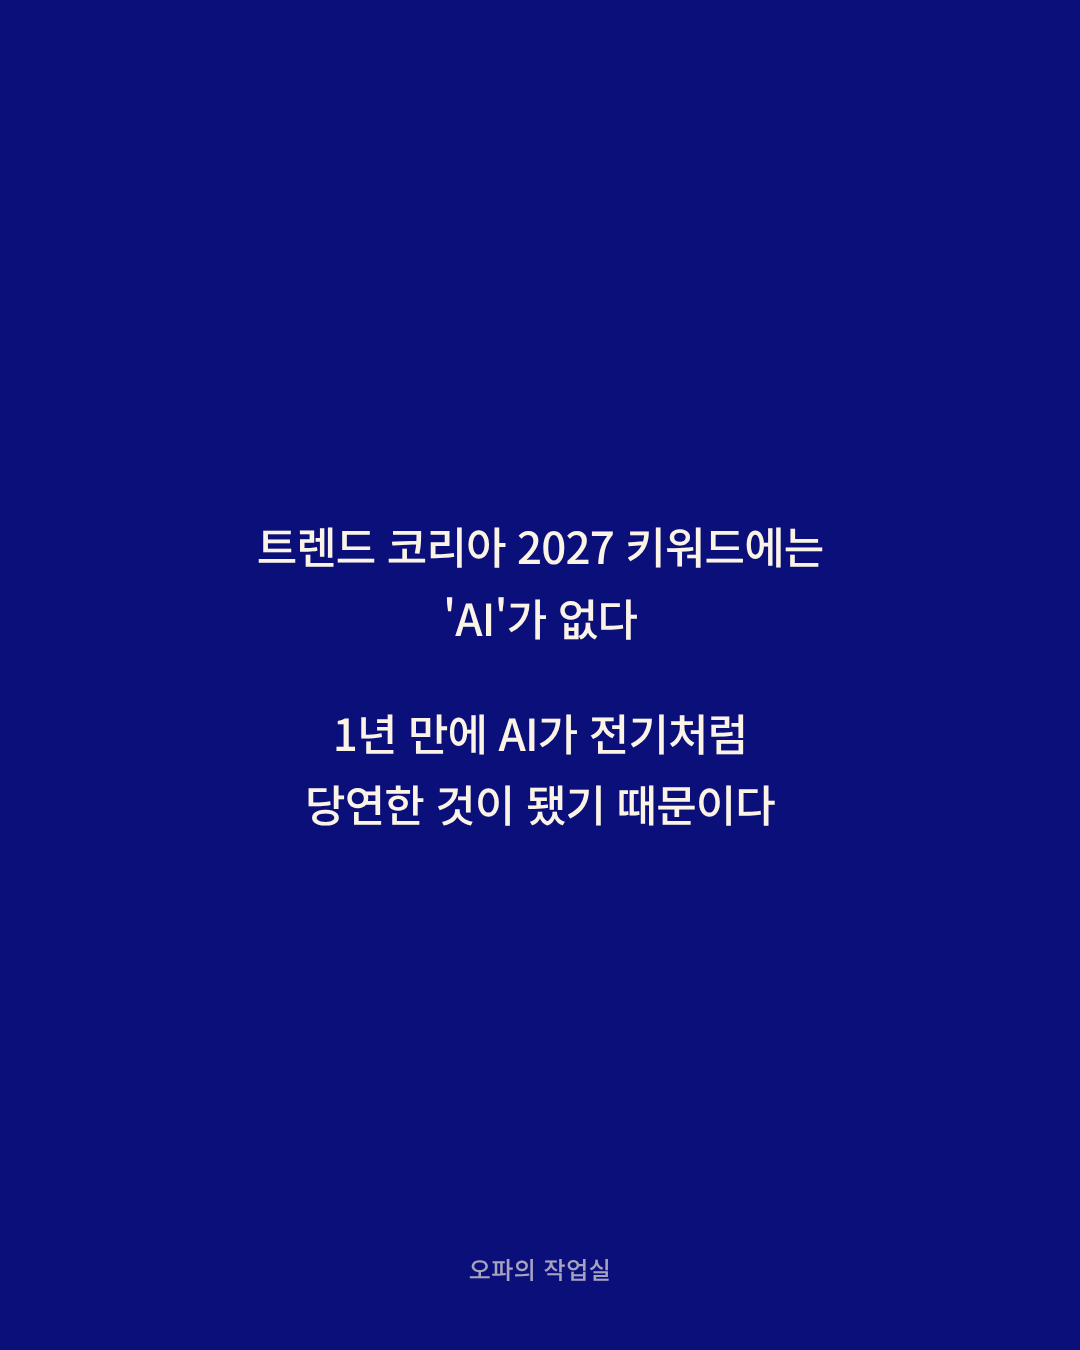
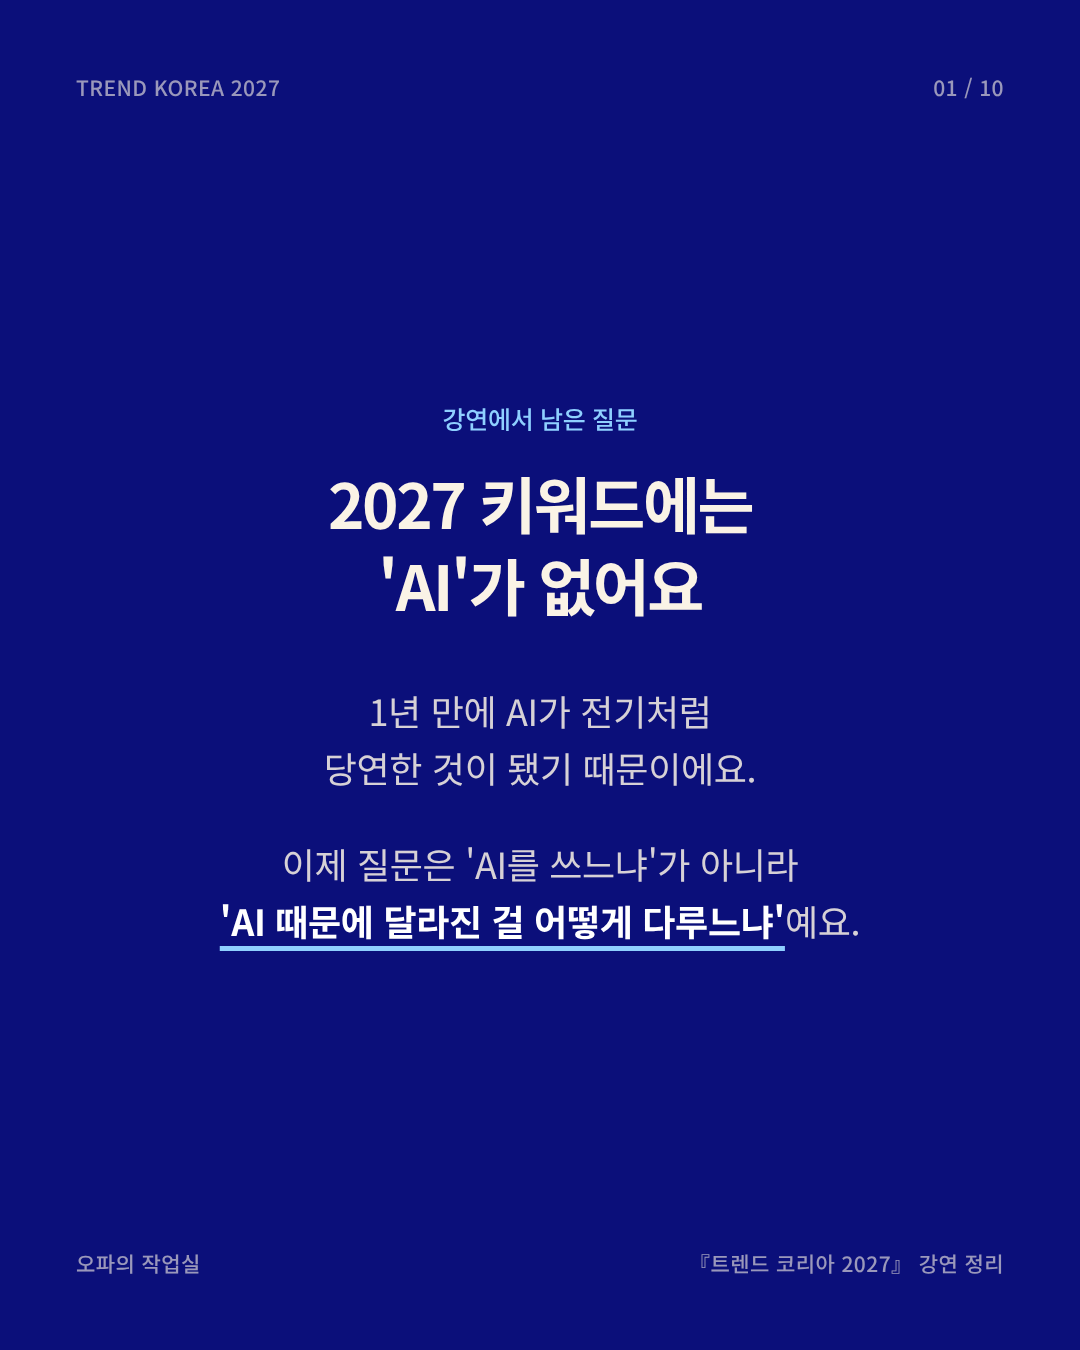
텍스트 카드: 진한 울트라마린·연하늘 번갈아 쓰기, 제목·본문 위계, 마지막 장 체크리스트
Claude-Session: https://claude.ai/code/session_016hvv34jPWo253fQY5tLEVV

diff --git a/cardnews/trend-korea-2027/text/text.html b/cardnews/trend-korea-2027/text/text.html
@@ -3,22 +3,72 @@
 <style>
 * { box-sizing: border-box; margin: 0; padding: 0; }
 body { background: #888; }
-.card { width: 1080px; height: 1350px; margin: 0 auto 30px; background: #0B0F7A; color: #FAF3E6;
-  display: flex; align-items: center; justify-content: center; position: relative;
-  font-family: 'Noto Sans KR', sans-serif; text-align: center; word-break: keep-all; padding: 0 80px; }
-.txt p { font-size: 44px; font-weight: 500; line-height: 1.62; letter-spacing: -0.02em; }
-.txt p + p { margin-top: 44px; }
-em { font-style: normal; color: #B9DCF7; font-weight: 700; }
-.foot { position: absolute; bottom: 64px; left: 0; right: 0; font-size: 24px; font-weight: 500; color: rgba(250,243,230,.65); letter-spacing: .02em; }
+.card { width: 1080px; height: 1350px; margin: 0 auto 30px; padding: 72px 76px; display: flex; flex-direction: column;
+  font-family: 'Noto Sans KR', sans-serif; text-align: center; word-break: keep-all; letter-spacing: -0.02em; }
+.dark { background: #0B0F7A; color: #FAF3E6; --k: #8FD0FF; --sub: rgba(250,243,230,.85); --line: #8FD0FF; --meta: rgba(250,243,230,.6); }
+.light { background: #E3F0FC; color: #0B0F7A; --k: #3D6FC4; --sub: #2A2F66; --line: #7FB2EA; --meta: rgba(11,15,122,.6); }
+.top, .foot { display: flex; justify-content: space-between; font-size: 21px; font-weight: 500; color: var(--meta); letter-spacing: .02em; }
+.txt { flex: 1; display: flex; flex-direction: column; justify-content: center; align-items: center; }
+.k { font-size: 25px; font-weight: 500; color: var(--k); margin-bottom: 26px; }
+h2 { font-size: 62px; font-weight: 700; line-height: 1.32; letter-spacing: -0.04em; margin-bottom: 56px; }
+p { font-size: 36px; font-weight: 400; line-height: 1.6; color: var(--sub); }
+p + p { margin-top: 38px; }
+em { font-style: normal; font-weight: 700; color: inherit; text-decoration: underline; text-decoration-color: var(--line);
+  text-decoration-thickness: 5px; text-underline-offset: 10px; }
+.dark em { color: #FFFFFF; }
+.steps, .qs { list-style: none; text-align: left; margin-bottom: 44px; }
+.steps li, .qs li { font-size: 35px; line-height: 1.5; padding: 12px 0; color: var(--sub); font-weight: 500; }
+.steps span, .qs span { display: inline-block; width: 64px; font-size: 24px; font-weight: 700; color: var(--k); vertical-align: 4px; }
+.qs li { font-size: 32px; padding: 10px 0; }
 </style></head><body>
-<section class="card" id="c1"><div class="txt"><p>트렌드 코리아 2027 키워드에는<br>'AI'가 없다</p><p>1년 만에 AI가 전기처럼<br>당연한 것이 됐기 때문이다</p></div><div class="foot">오파의 작업실</div></section>
-<section class="card" id="c2"><div class="txt"><p>그래서 올해의 질문이 바뀌었다</p><p>AI를 쓰느냐가 아니라<br>AI 때문에 달라진 일, 인생, 감각을<br>어떻게 다루느냐</p></div><div class="foot">오파의 작업실</div></section>
-<section class="card" id="c3"><div class="txt"><p><em>바이브 워킹</em></p><p>AI로 보고서는 이틀에서 반나절이 됐는데<br>팀 프로젝트는 여전히 3개월이다</p><p>병목은 AI가 아니라<br>일하는 방식에 있다</p></div><div class="foot">오파의 작업실</div></section>
-<section class="card" id="c4"><div class="txt"><p>AI는 아직 신입사원이다</p><p>10년 손발 맞춘 동료는<br>"3년 전 그 PPT처럼" 한마디면 알아듣는다</p><p>AI도 그렇게 되려면<br><em>우리 팀의 맥락</em>부터 가르쳐야 한다</p></div><div class="foot">오파의 작업실</div></section>
-<section class="card" id="c5"><div class="txt"><p>우수 사례 경진대회보다<br>실패 사례를 모으는 팀이 더 빨리 배운다</p><p>"이렇게 썼더니 망했다"는<br>누구나 신나게 공유하기 때문이다</p></div><div class="foot">오파의 작업실</div></section>
-<section class="card" id="c6"><div class="txt"><p><em>하프시그널</em></p><p>갱년기는 끝이 아니라<br>인생 후반전을 알리는 하프타임이다</p><p>X세대는 참지 않고<br>말하고, 소비하고, 준비한다</p></div><div class="foot">오파의 작업실</div></section>
-<section class="card" id="c7"><div class="txt"><p>이제 갱년기는 집이 아니라<br>일터의 문제이기도 하다</p><p>이케아는 갱년기 동료 배려 매뉴얼을 만들었고<br>노무라는 갱년기 유급휴가를 준다</p></div><div class="foot">오파의 작업실</div></section>
-<section class="card" id="c8"><div class="txt"><p><em>안목자본</em></p><p>AI를 써도 글을 못 쓰는 사람이 있다<br>좋은 글이 뭔지 모르기 때문이다</p><p>무한히 만들어지는 시대에는<br>고르는 눈이 실력이다</p></div><div class="foot">오파의 작업실</div></section>
-<section class="card" id="c9"><div class="txt"><p>안목은 이렇게 자란다</p><p>많이 보고, 내 언어로 표현하고<br>전문가의 평가와 비교하고, 오래 반복한다</p><p>보고 저장만 하면<br>안목은 생기지 않는다</p></div><div class="foot">오파의 작업실</div></section>
-<section class="card" id="c10"><div class="txt"><p>어제의 해결책이<br>오늘의 문제점이 된다</p><p>— 트렌드 코리아 2027 강연 중</p><p><em>내년 기획 전에 다시 꺼내 볼 수 있게<br>저장해두세요</em></p></div><div class="foot">오파의 작업실</div></section>
+<section class="card dark" id="c1">
+  <div class="top"><span>TREND KOREA 2027</span><span>01 / 10</span></div>
+  <div class="txt"><div class="k">강연에서 남은 질문</div><h2>2027 키워드에는<br>'AI'가 없어요</h2><p>1년 만에 AI가 전기처럼<br>당연한 것이 됐기 때문이에요.</p><p>이제 질문은 'AI를 쓰느냐'가 아니라<br><em>'AI 때문에 달라진 걸 어떻게 다루느냐'</em>예요.</p></div>
+  <div class="foot"><span>오파의 작업실</span><span>『트렌드 코리아 2027』 강연 정리</span></div>
+</section>
+<section class="card light" id="c2">
+  <div class="top"><span>TREND KOREA 2027</span><span>02 / 10</span></div>
+  <div class="txt"><div class="k">01 · 바이브 워킹</div><h2>AI를 쓴다고<br>일을 잘하게 되는 건 아니에요</h2><p>보고서는 2일 → 반나절,<br>팀 프로젝트는 3개월 그대로.</p><p>병목은 AI가 아니라<br><em>일하는 방식</em>에 있어요.</p></div>
+  <div class="foot"><span>오파의 작업실</span><span>『트렌드 코리아 2027』 강연 정리</span></div>
+</section>
+<section class="card dark" id="c3">
+  <div class="top"><span>TREND KOREA 2027</span><span>03 / 10</span></div>
+  <div class="txt"><div class="k">01 · 바이브 워킹</div><h2>AI는 아직<br>신입사원이에요</h2><p>10년 손발 맞춘 동료는<br>"3년 전 그 PPT처럼" 한마디면 알아들어요.</p><p>AI도 그렇게 되려면<br><em>우리 팀의 맥락</em>부터 가르쳐야 해요.</p></div>
+  <div class="foot"><span>오파의 작업실</span><span>『트렌드 코리아 2027』 강연 정리</span></div>
+</section>
+<section class="card light" id="c4">
+  <div class="top"><span>TREND KOREA 2027</span><span>04 / 10</span></div>
+  <div class="txt"><div class="k">01 · 바이브 워킹</div><h2>우수 사례보다<br>실패 사례를 모으세요</h2><p>경진대회는 부담이라 아무도 안 내요.</p><p>"이렇게 썼더니 망했어"는<br>누구나 신나게 공유해요.</p><p>그게 쌓이면 <em>팀의 실력</em>이 돼요.</p></div>
+  <div class="foot"><span>오파의 작업실</span><span>『트렌드 코리아 2027』 강연 정리</span></div>
+</section>
+<section class="card dark" id="c5">
+  <div class="top"><span>TREND KOREA 2027</span><span>05 / 10</span></div>
+  <div class="txt"><div class="k">02 · 하프시그널</div><h2>갱년기는 끝이 아니라<br>하프타임이에요</h2><p>100세 시대, 50대는<br>인생의 딱 절반이에요.</p><p>X세대는 참지 않아요.<br>말하고, 소비하고, <em>후반전을 준비</em>해요.</p></div>
+  <div class="foot"><span>오파의 작업실</span><span>『트렌드 코리아 2027』 강연 정리</span></div>
+</section>
+<section class="card light" id="c6">
+  <div class="top"><span>TREND KOREA 2027</span><span>06 / 10</span></div>
+  <div class="txt"><div class="k">02 · 하프시그널</div><h2>이제 갱년기는<br>일터의 이야기이기도 해요</h2><p>자녀 사춘기, 부부 갱년기, 부모 부양이<br>한꺼번에 오는 시기.</p><p>이케아는 배려 매뉴얼을,<br>노무라는 유급휴가를 만들었어요.</p><p><em>혼자 견디는 일에서 함께 챙기는 일로</em>.</p></div>
+  <div class="foot"><span>오파의 작업실</span><span>『트렌드 코리아 2027』 강연 정리</span></div>
+</section>
+<section class="card dark" id="c7">
+  <div class="top"><span>TREND KOREA 2027</span><span>07 / 10</span></div>
+  <div class="txt"><div class="k">03 · 안목자본</div><h2>AI를 써도<br>글을 못 쓰는 이유</h2><p>좋은 글이 뭔지 모르기 때문이에요.</p><p>무엇이든 무한히 만들어지는 시대에는<br><em>고르는 눈</em>이 실력이에요.</p></div>
+  <div class="foot"><span>오파의 작업실</span><span>『트렌드 코리아 2027』 강연 정리</span></div>
+</section>
+<section class="card light" id="c8">
+  <div class="top"><span>TREND KOREA 2027</span><span>08 / 10</span></div>
+  <div class="txt"><div class="k">03 · 안목자본</div><h2>보고 저장만 하면<br>안목은 생기지 않아요</h2><ol class="steps"><li><span>01</span>좋은 것을 많이 보고</li><li><span>02</span>내 언어로 표현하고</li><li><span>03</span>전문가의 평가와 비교하고</li><li><span>04</span>오래 반복하기</li></ol><p>촌스러워도, 틀려도 괜찮아요.</p></div>
+  <div class="foot"><span>오파의 작업실</span><span>『트렌드 코리아 2027』 강연 정리</span></div>
+</section>
+<section class="card dark" id="c9">
+  <div class="top"><span>TREND KOREA 2027</span><span>09 / 10</span></div>
+  <div class="txt"><div class="k">강연의 마지막 문장</div><h2>어제의 해결책이<br>오늘의 문제점이에요</h2><p>잘해온 방식을 지키는 것과<br>익숙한 방식만 고집하는 건<br>다른 일이니까요.</p></div>
+  <div class="foot"><span>오파의 작업실</span><span>『트렌드 코리아 2027』 강연 정리</span></div>
+</section>
+<section class="card light" id="c10">
+  <div class="top"><span>TREND KOREA 2027</span><span>10 / 10</span></div>
+  <div class="txt"><div class="k">나를 위한 체크리스트</div><h2>2027년을 앞두고<br>나에게 던져볼 5가지 질문</h2><ol class="qs"><li><span>01</span>AI를 쓰면서도 그대로인 일하는 방식은?</li><li><span>02</span>우리 팀이 AI에게 가르쳐야 할 맥락은?</li><li><span>03</span>이번 달 모아둔 실패 사례는?</li><li><span>04</span>내 인생의 후반전, 무엇을 준비하고 있나?</li><li><span>05</span>최근 '좋다'고 느낀 걸 내 언어로 설명할 수 있나?</li></ol><p>저장해두고 내년 기획 전에 다시 꺼내 보세요.</p></div>
+  <div class="foot"><span>오파의 작업실</span><span>『트렌드 코리아 2027』 강연 정리</span></div>
+</section>
 </body></html>

diff --git a/cardnews/trend-korea-2027/text/build.py b/cardnews/trend-korea-2027/text/build.py
@@ -1,18 +1,41 @@
-"""텍스트만 있는 카드뉴스: 진한 울트라마린(#0B0F7A) 단색 바탕 + 크림 글자, 가운데 정렬.
-슬라이드마다 문단 리스트, 문단 안 줄바꿈은 \\n. [[ ]] 안은 연하늘 강조."""
+"""텍스트 카드뉴스: 진한 울트라마린(#0B0F7A)과 연하늘(#E3F0FC) 바탕을 번갈아 쓰고,
+작은 라벨 + 굵은 제목 + 본문으로 위계를 준다. 본문의 [[ ]] 는 밑줄 강조."""
 import re
 
 SLIDES = [
-    ["트렌드 코리아 2027 키워드에는\n'AI'가 없다", "1년 만에 AI가 전기처럼\n당연한 것이 됐기 때문이다"],
-    ["그래서 올해의 질문이 바뀌었다", "AI를 쓰느냐가 아니라\nAI 때문에 달라진 일, 인생, 감각을\n어떻게 다루느냐"],
-    ["[[바이브 워킹]]", "AI로 보고서는 이틀에서 반나절이 됐는데\n팀 프로젝트는 여전히 3개월이다", "병목은 AI가 아니라\n일하는 방식에 있다"],
-    ["AI는 아직 신입사원이다", "10년 손발 맞춘 동료는\n\"3년 전 그 PPT처럼\" 한마디면 알아듣는다", "AI도 그렇게 되려면\n[[우리 팀의 맥락]]부터 가르쳐야 한다"],
-    ["우수 사례 경진대회보다\n실패 사례를 모으는 팀이 더 빨리 배운다", "\"이렇게 썼더니 망했다\"는\n누구나 신나게 공유하기 때문이다"],
-    ["[[하프시그널]]", "갱년기는 끝이 아니라\n인생 후반전을 알리는 하프타임이다", "X세대는 참지 않고\n말하고, 소비하고, 준비한다"],
-    ["이제 갱년기는 집이 아니라\n일터의 문제이기도 하다", "이케아는 갱년기 동료 배려 매뉴얼을 만들었고\n노무라는 갱년기 유급휴가를 준다"],
-    ["[[안목자본]]", "AI를 써도 글을 못 쓰는 사람이 있다\n좋은 글이 뭔지 모르기 때문이다", "무한히 만들어지는 시대에는\n고르는 눈이 실력이다"],
-    ["안목은 이렇게 자란다", "많이 보고, 내 언어로 표현하고\n전문가의 평가와 비교하고, 오래 반복한다", "보고 저장만 하면\n안목은 생기지 않는다"],
-    ["어제의 해결책이\n오늘의 문제점이 된다", "— 트렌드 코리아 2027 강연 중", "[[내년 기획 전에 다시 꺼내 볼 수 있게\n저장해두세요]]"],
+    dict(k='강연에서 남은 질문', t="2027 키워드에는\n'AI'가 없어요",
+         b=["1년 만에 AI가 전기처럼\n당연한 것이 됐기 때문이에요.",
+            "이제 질문은 'AI를 쓰느냐'가 아니라\n[['AI 때문에 달라진 걸 어떻게 다루느냐']]예요."]),
+    dict(k='01 · 바이브 워킹', t='AI를 쓴다고\n일을 잘하게 되는 건 아니에요',
+         b=['보고서는 2일 → 반나절,\n팀 프로젝트는 3개월 그대로.',
+            '병목은 AI가 아니라\n[[일하는 방식]]에 있어요.']),
+    dict(k='01 · 바이브 워킹', t='AI는 아직\n신입사원이에요',
+         b=['10년 손발 맞춘 동료는\n"3년 전 그 PPT처럼" 한마디면 알아들어요.',
+            'AI도 그렇게 되려면\n[[우리 팀의 맥락]]부터 가르쳐야 해요.']),
+    dict(k='01 · 바이브 워킹', t='우수 사례보다\n실패 사례를 모으세요',
+         b=['경진대회는 부담이라 아무도 안 내요.',
+            '"이렇게 썼더니 망했어"는\n누구나 신나게 공유해요.',
+            '그게 쌓이면 [[팀의 실력]]이 돼요.']),
+    dict(k='02 · 하프시그널', t='갱년기는 끝이 아니라\n하프타임이에요',
+         b=['100세 시대, 50대는\n인생의 딱 절반이에요.',
+            'X세대는 참지 않아요.\n말하고, 소비하고, [[후반전을 준비]]해요.']),
+    dict(k='02 · 하프시그널', t='이제 갱년기는\n일터의 이야기이기도 해요',
+         b=['자녀 사춘기, 부부 갱년기, 부모 부양이\n한꺼번에 오는 시기.',
+            '이케아는 배려 매뉴얼을,\n노무라는 유급휴가를 만들었어요.',
+            '[[혼자 견디는 일에서 함께 챙기는 일로]].']),
+    dict(k='03 · 안목자본', t='AI를 써도\n글을 못 쓰는 이유',
+         b=['좋은 글이 뭔지 모르기 때문이에요.',
+            '무엇이든 무한히 만들어지는 시대에는\n[[고르는 눈]]이 실력이에요.']),
+    dict(k='03 · 안목자본', t='보고 저장만 하면\n안목은 생기지 않아요',
+         steps=['좋은 것을 많이 보고', '내 언어로 표현하고', '전문가의 평가와 비교하고', '오래 반복하기'],
+         b=['촌스러워도, 틀려도 괜찮아요.']),
+    dict(k='강연의 마지막 문장', t='어제의 해결책이\n오늘의 문제점이에요',
+         b=['잘해온 방식을 지키는 것과\n익숙한 방식만 고집하는 건\n다른 일이니까요.']),
+    dict(k='나를 위한 체크리스트', t='2027년을 앞두고\n나에게 던져볼 5가지 질문',
+         qs=['AI를 쓰면서도 그대로인 일하는 방식은?', '우리 팀이 AI에게 가르쳐야 할 맥락은?',
+             '이번 달 모아둔 실패 사례는?', '내 인생의 후반전, 무엇을 준비하고 있나?',
+             "최근 '좋다'고 느낀 걸 내 언어로 설명할 수 있나?"],
+         b=['저장해두고 내년 기획 전에 다시 꺼내 보세요.']),
 ]
 
 
@@ -21,25 +44,45 @@ def fmt(t):
     return re.sub(r'\[\[(.+?)\]\]', r'<em>\1</em>', t, flags=re.S)
 
 
+N = len(SLIDES)
 cards = []
-for i, paras in enumerate(SLIDES, 1):
-    body = ''.join(f'<p>{fmt(p)}</p>' for p in paras)
-    cards.append(f'<section class="card" id="c{i}"><div class="txt">{body}</div>'
-                 f'<div class="foot">오파의 작업실</div></section>')
+for i, s in enumerate(SLIDES, 1):
+    tone = 'dark' if i % 2 else 'light'
+    parts = [f'<div class="k">{s["k"]}</div>', f'<h2>{fmt(s["t"])}</h2>']
+    if 'steps' in s:
+        parts.append('<ol class="steps">' + ''.join(f'<li><span>{j:02d}</span>{x}</li>' for j, x in enumerate(s['steps'], 1)) + '</ol>')
+    if 'qs' in s:
+        parts.append('<ol class="qs">' + ''.join(f'<li><span>{j:02d}</span>{x}</li>' for j, x in enumerate(s['qs'], 1)) + '</ol>')
+    parts += [f'<p>{fmt(p)}</p>' for p in s['b']]
+    cards.append(f'''<section class="card {tone}" id="c{i}">
+  <div class="top"><span>TREND KOREA 2027</span><span>{i:02d} / {N:02d}</span></div>
+  <div class="txt">{''.join(parts)}</div>
+  <div class="foot"><span>오파의 작업실</span><span>『트렌드 코리아 2027』 강연 정리</span></div>
+</section>''')
 
 open('text.html', 'w').write(f'''<!doctype html><html lang="ko"><head><meta charset="utf-8"><title>text cards</title>
 <link rel="stylesheet" href="../fonts/noto.css">
 <style>
 * {{ box-sizing: border-box; margin: 0; padding: 0; }}
 body {{ background: #888; }}
-.card {{ width: 1080px; height: 1350px; margin: 0 auto 30px; background: #0B0F7A; color: #FAF3E6;
-  display: flex; align-items: center; justify-content: center; position: relative;
-  font-family: 'Noto Sans KR', sans-serif; text-align: center; word-break: keep-all; padding: 0 80px; }}
-.txt p {{ font-size: 44px; font-weight: 500; line-height: 1.62; letter-spacing: -0.02em; }}
-.txt p + p {{ margin-top: 44px; }}
-em {{ font-style: normal; color: #B9DCF7; font-weight: 700; }}
-.foot {{ position: absolute; bottom: 64px; left: 0; right: 0; font-size: 24px; font-weight: 500; color: rgba(250,243,230,.65); letter-spacing: .02em; }}
+.card {{ width: 1080px; height: 1350px; margin: 0 auto 30px; padding: 72px 76px; display: flex; flex-direction: column;
+  font-family: 'Noto Sans KR', sans-serif; text-align: center; word-break: keep-all; letter-spacing: -0.02em; }}
+.dark {{ background: #0B0F7A; color: #FAF3E6; --k: #8FD0FF; --sub: rgba(250,243,230,.85); --line: #8FD0FF; --meta: rgba(250,243,230,.6); }}
+.light {{ background: #E3F0FC; color: #0B0F7A; --k: #3D6FC4; --sub: #2A2F66; --line: #7FB2EA; --meta: rgba(11,15,122,.6); }}
+.top, .foot {{ display: flex; justify-content: space-between; font-size: 21px; font-weight: 500; color: var(--meta); letter-spacing: .02em; }}
+.txt {{ flex: 1; display: flex; flex-direction: column; justify-content: center; align-items: center; }}
+.k {{ font-size: 25px; font-weight: 500; color: var(--k); margin-bottom: 26px; }}
+h2 {{ font-size: 62px; font-weight: 700; line-height: 1.32; letter-spacing: -0.04em; margin-bottom: 56px; }}
+p {{ font-size: 36px; font-weight: 400; line-height: 1.6; color: var(--sub); }}
+p + p {{ margin-top: 38px; }}
+em {{ font-style: normal; font-weight: 700; color: inherit; text-decoration: underline; text-decoration-color: var(--line);
+  text-decoration-thickness: 5px; text-underline-offset: 10px; }}
+.dark em {{ color: #FFFFFF; }}
+.steps, .qs {{ list-style: none; text-align: left; margin-bottom: 44px; }}
+.steps li, .qs li {{ font-size: 35px; line-height: 1.5; padding: 12px 0; color: var(--sub); font-weight: 500; }}
+.steps span, .qs span {{ display: inline-block; width: 64px; font-size: 24px; font-weight: 700; color: var(--k); vertical-align: 4px; }}
+.qs li {{ font-size: 32px; padding: 10px 0; }}
 </style></head><body>
 {chr(10).join(cards)}
 </body></html>''')
-print(len(cards))
+print(N)
